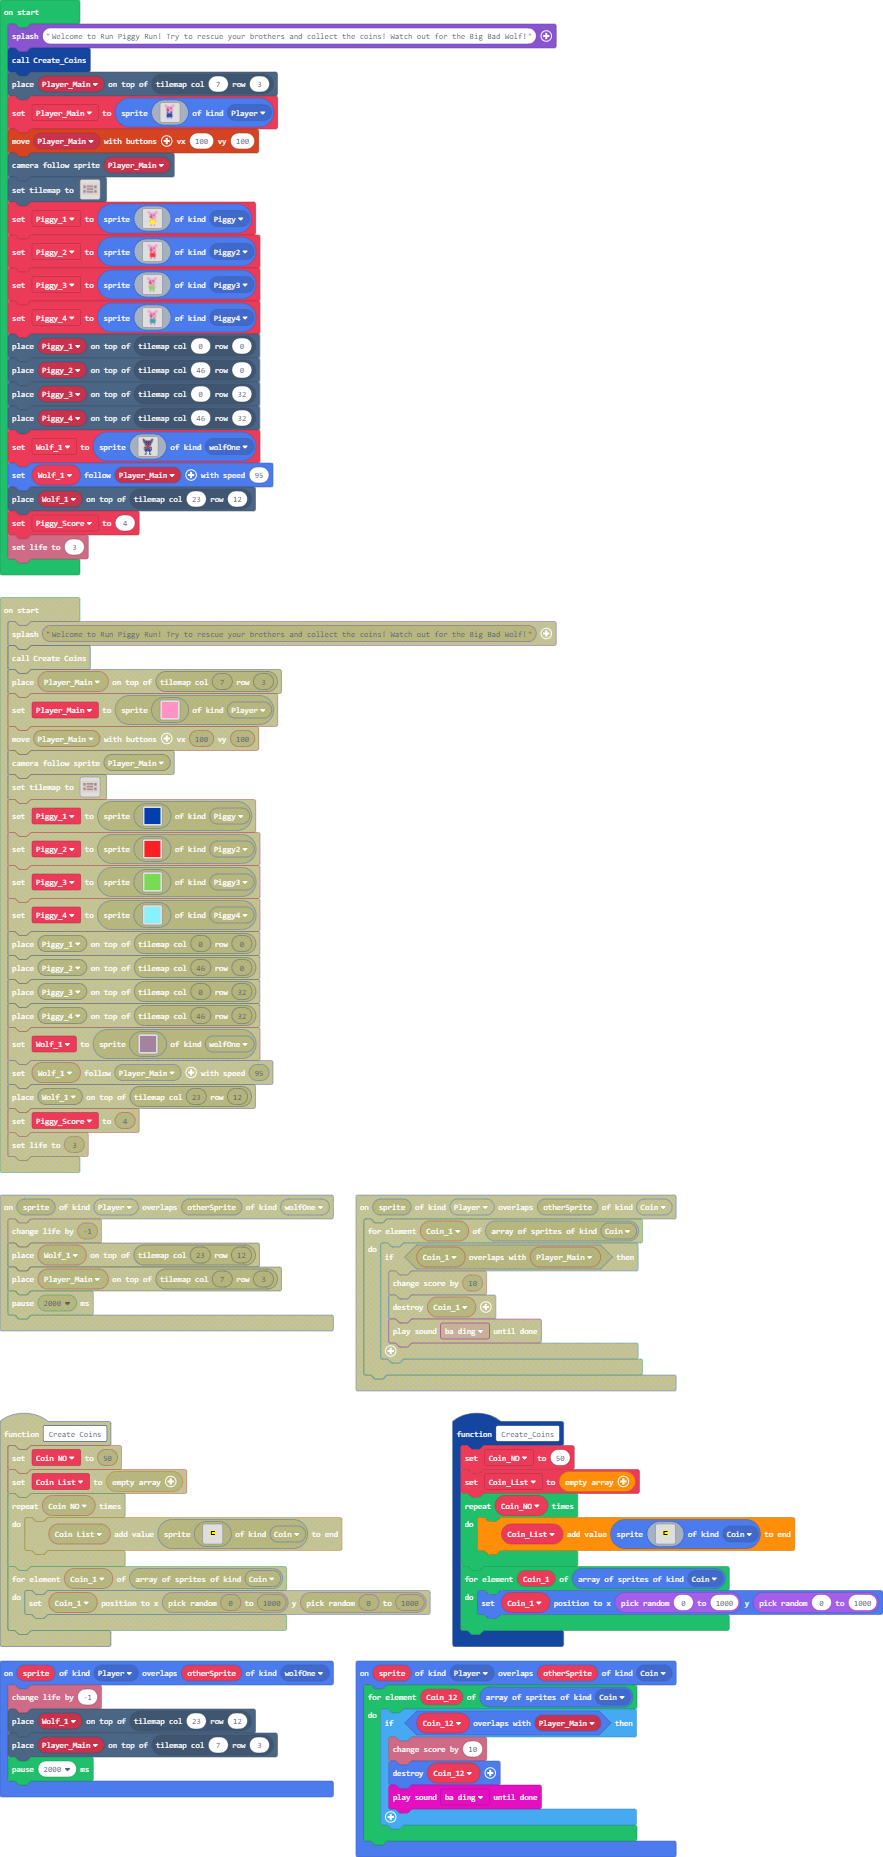
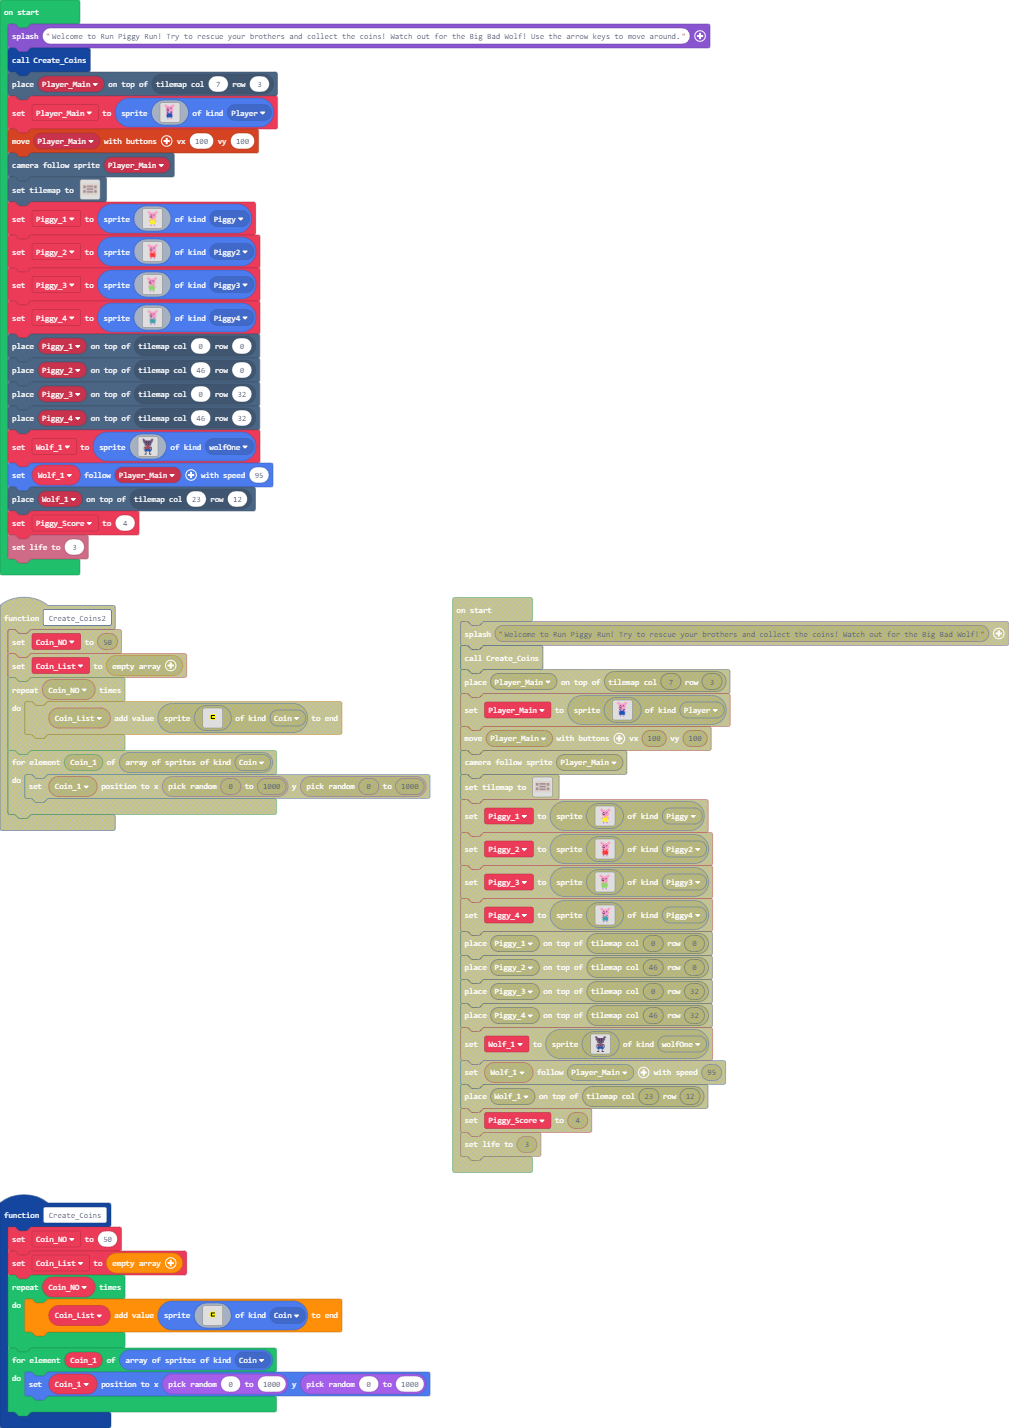
Update main.blocks, main.ts

diff --git a/main.ts b/main.ts
@@ -101,7 +101,7 @@ let Piggy_3: Sprite = null
 let Piggy_2: Sprite = null
 let Piggy_1: Sprite = null
 let Player_Main: Sprite = null
-game.splash("Welcome to Run Piggy Run! Try to rescue your brothers and collect the coins! Watch out for the Big Bad Wolf!")
+game.splash("Welcome to Run Piggy Run! Try to rescue your brothers and collect the coins! Watch out for the Big Bad Wolf! Use the arrow keys to move around.")
 Create_Coins()
 tiles.placeOnTile(Player_Main, tiles.getTileLocation(7, 3))
 Player_Main = sprites.create(img`
@@ -291,14 +291,14 @@ tiles.placeOnTile(Wolf_1, tiles.getTileLocation(23, 12))
 let Piggy_Score = 4
 info.setLife(3)
 game.onUpdateInterval(500, function () {
-    if (Piggy_Score == 0) {
-        game.over(true)
-    }
-})
-game.onUpdateInterval(500, function () {
     if (info.life() == 0) {
         game.over(false)
         game.reset()
+    }
+})
+game.onUpdateInterval(500, function () {
+    if (Piggy_Score == 0) {
+        game.over(true)
     }
 })
 forever(function () {
